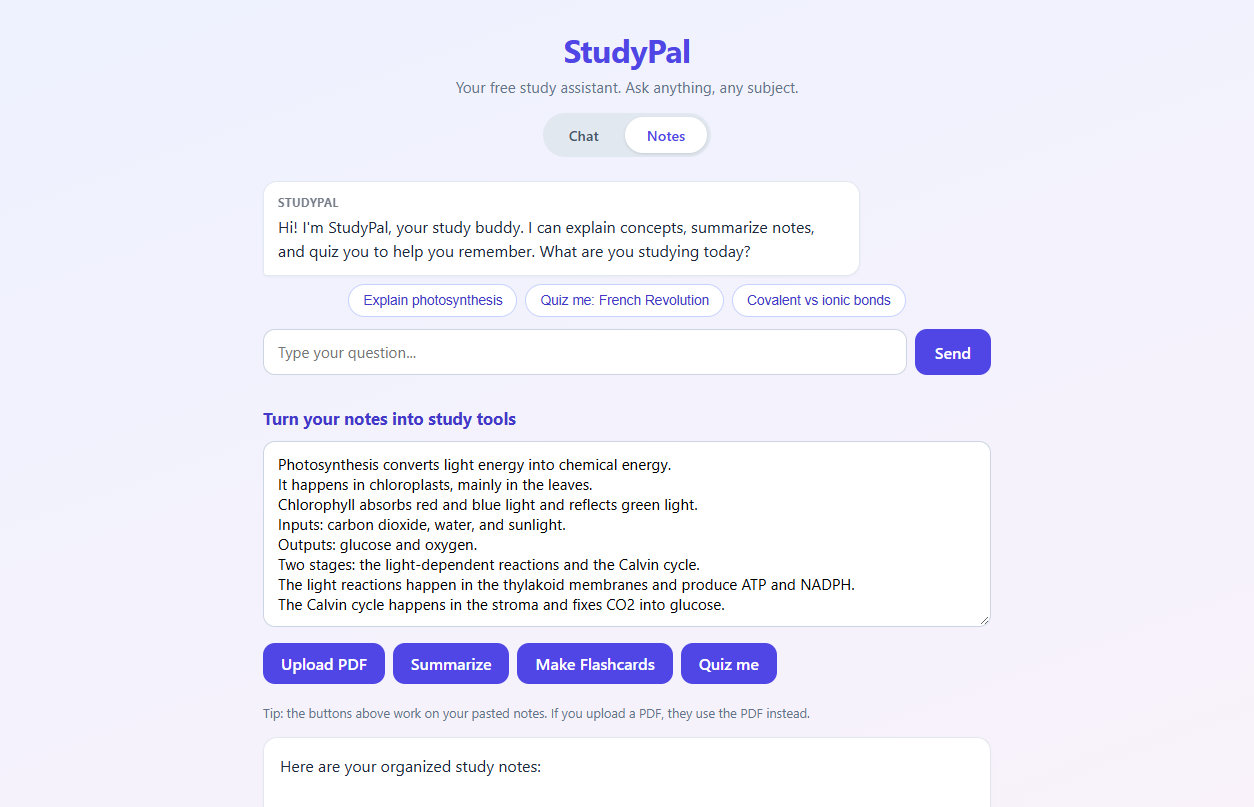
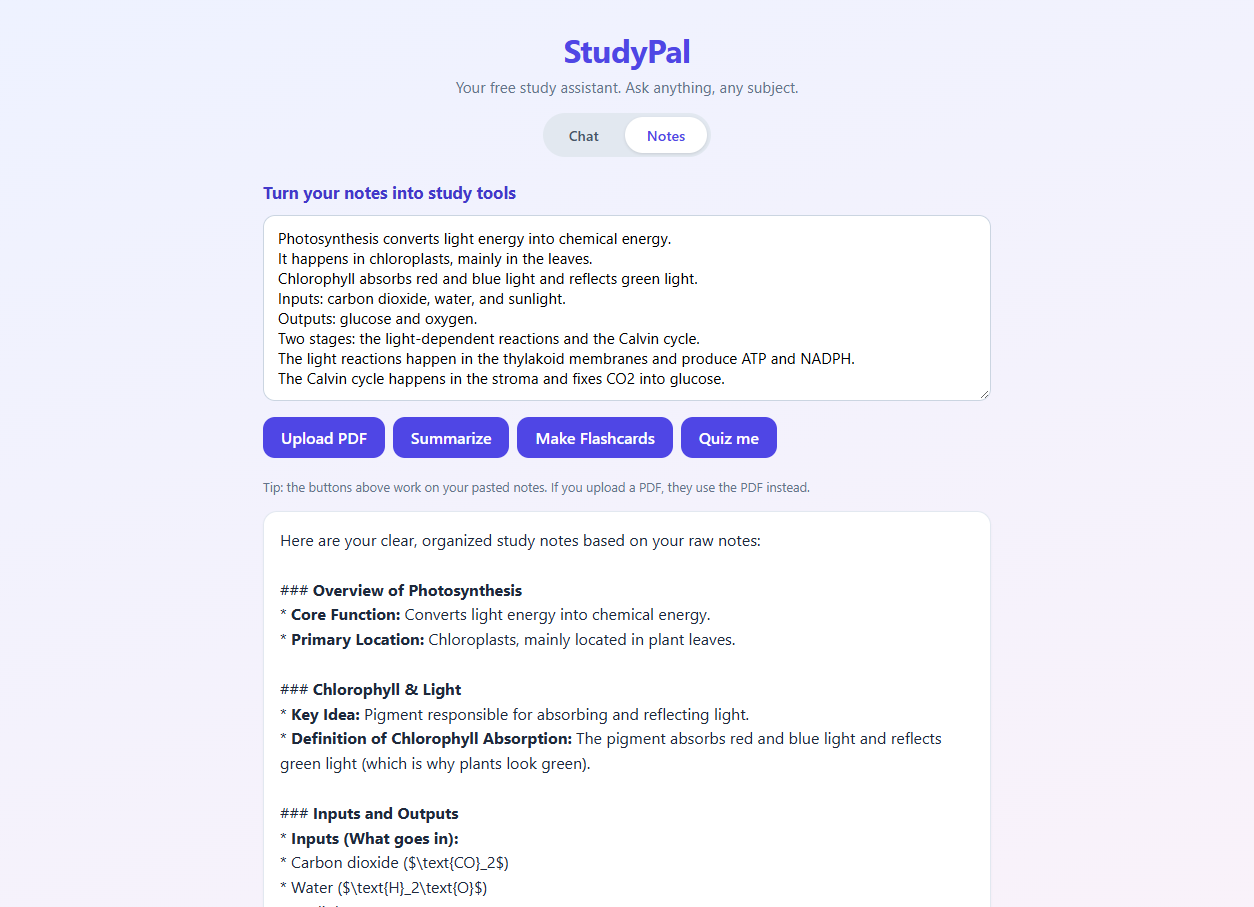
Render markdown headings, lists, and chemical formulas in responses

diff --git a/public/app.js b/public/app.js
@@ -62,11 +62,100 @@ function escapeHtml(text) {
     .replace(/"/g, '&quot;');
 }
 
+function inlineFormat(text) {
+  return text
+    .replace(/\$([^$]+)\$/g, (_, expr) => expr
+      .replace(/\\text\{([^}]*)\}/g, '$1')
+      .replace(/\\[a-zA-Z]+/g, '')
+      .replace(/_\{([^}]*)\}/g, '<sub>$1</sub>')
+      .replace(/_(\d+)/g, '<sub>$1</sub>')
+      .replace(/\^\{([^}]*)\}/g, '<sup>$1</sup>')
+      .replace(/\^(\d+)/g, '<sup>$1</sup>'))
+    .replace(/`([^`]+)`/g, '<code>$1</code>')
+    .replace(/\*\*([^*]+)\*\*/g, '<strong>$1</strong>')
+    .replace(/(^|[^*])\*([^*]+)\*/g, '$1<em>$2</em>');
+}
+
 function renderMarkdown(text) {
   const escaped = escapeHtml(text);
-  const withCode = escaped.replace(/```([\s\S]*?)```/g, '<pre><code>$1</code></pre>');
-  const withBold = withCode.replace(/\*\*([^*]+)\*\*/g, '<strong>$1</strong>');
-  return withBold.replace(/\n/g, '<br>');
+  const out = [];
+  let list = null;
+  let inCode = false;
+  let codeLines = [];
+
+  const closeList = () => {
+    if (list) {
+      out.push(`</${list}>`);
+      list = null;
+    }
+  };
+  const flushCode = () => {
+    if (inCode) {
+      out.push(`<pre><code>${codeLines.join('\n')}</code></pre>`);
+      inCode = false;
+      codeLines = [];
+    }
+  };
+
+  for (const raw of escaped.split('\n')) {
+    const line = raw.trim();
+
+    if (line.startsWith('```')) {
+      if (inCode) flushCode();
+      else { closeList(); inCode = true; }
+      continue;
+    }
+    if (inCode) {
+      codeLines.push(raw);
+      continue;
+    }
+    if (!line) {
+      closeList();
+      continue;
+    }
+    if (/^[-*_]{3,}$/.test(line)) {
+      closeList();
+      out.push('<hr>');
+      continue;
+    }
+
+    const heading = line.match(/^(#{1,6})\s+(.*)$/);
+    if (heading) {
+      closeList();
+      const level = Math.min(heading[1].length + 2, 6);
+      out.push(`<h${level}>${inlineFormat(heading[2])}</h${level}>`);
+      continue;
+    }
+
+    const bullet = line.match(/^[*\-•]\s+(.*)$/);
+    if (bullet) {
+      if (list !== 'ul') {
+        closeList();
+        out.push('<ul>');
+        list = 'ul';
+      }
+      out.push(`<li>${inlineFormat(bullet[1])}</li>`);
+      continue;
+    }
+
+    const numbered = line.match(/^\d+[.)]\s+(.*)$/);
+    if (numbered) {
+      if (list !== 'ol') {
+        closeList();
+        out.push('<ol>');
+        list = 'ol';
+      }
+      out.push(`<li>${inlineFormat(numbered[1])}</li>`);
+      continue;
+    }
+
+    closeList();
+    out.push(`<p>${inlineFormat(line)}</p>`);
+  }
+
+  flushCode();
+  closeList();
+  return out.join('');
 }
 
 function addMessage(role, text, typing) {

diff --git a/public/style.css b/public/style.css
@@ -120,6 +120,29 @@ body {
   word-wrap: break-word;
 }
 
+.msg-text p {
+  margin: 8px 0;
+}
+
+.msg-text h3,
+.msg-text h4,
+.msg-text h5,
+.msg-text h6 {
+  margin: 16px 0 6px;
+  font-size: 0.95rem;
+  color: #4338ca;
+}
+
+.msg-text ul,
+.msg-text ol {
+  margin: 6px 0;
+  padding-left: 20px;
+}
+
+.msg-text li {
+  margin: 3px 0;
+}
+
 .msg-text pre {
   background: #0f172a;
   color: #e2e8f0;
@@ -317,8 +340,21 @@ body {
 }
 
 .result-box h3 {
-  margin-top: 0;
+  margin: 16px 0 6px;
   color: #4338ca;
+}
+
+.result-box h3:first-child {
+  margin-top: 0;
+}
+
+.result-box p {
+  margin: 8px 0;
+}
+
+.result-box ol {
+  padding-left: 20px;
+  margin: 6px 0;
 }
 
 .result-box ul {
